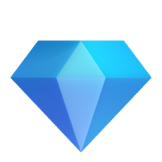
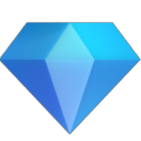
minor changes

Changed region(s): [[0.0, 0.1418, 1.0, 0.9645], [0.539, 0.539, 0.8794, 0.9078], [0.8794, 0.5106, 0.9078, 0.539]]

diff --git a/src/Components/SubSec3Container.js b/src/Components/SubSec3Container.js
@@ -1,23 +1,25 @@
 import CostEffectiveContainer from "./CostEffectiveContainer";
 import "./SubSec3Container.css";
+import rocket from "../assets/rocket.png"
+import diamond from "../assets/diamond.png"
 const SubSec3Container = () => {
   return (
     <div className="subsec3">
       <b className="heading2">Our Casino Software Solutions</b>
       <div className="yellowcards">
         <CostEffectiveContainer
-          whiteLabelText="/yellowimage@2x.png"
+          whiteLabelText={rocket}
           turnkeySolutionText="White Label"
           turnkeySolutionDescriptio="Cost-effective, comprehensive solution aimed at launching your own casino or sports exchange in the shortest period of time"
           propWidth="8.81rem"
           propHeight="8.81rem"
         />
         <CostEffectiveContainer
-          whiteLabelText="/yellowimage1@2x.png"
+          whiteLabelText={diamond}
           turnkeySolutionText="Turnkey Solution"
           turnkeySolutionDescriptio="The turn key business is a perfect solution for those who would like to get a self-owned multi-functional platform"
-          propWidth="10.13rem"
-          propHeight="10.13rem"
+          propWidth="8.81rem"
+          propHeight="8.81rem"
         />
       </div>
     </div>

diff --git a/src/Components/CostEffectiveContainer.css b/src/Components/CostEffectiveContainer.css
@@ -75,13 +75,14 @@
   font-size: var(--font-size-31xl);
   color: var(--neutral-colors-white);
   font-family: var(--headline);
-  background-color: yellow;
+  border-radius: 50px;
+background-color: #fec611;
 }
 
 
 .yellowcard:hover{
   border-radius: 50px;
-background: #ffffff;
-box-shadow: inset 20px 20px 82px #666666,
-            inset -20px -20px 82px #ffffff;
+/* background: #ffffff; */
+box-shadow:  inset 20px 20px 90px #aa850b,
+inset -20px -20px 90px #aa850b;
 }

diff --git a/src/Components/CostEffectiveContainer.js b/src/Components/CostEffectiveContainer.js
@@ -16,7 +16,8 @@ const CostEffectiveContainer = ({
 
   return (
     <div className="yellowcard">
-      {/* <img className="yellowmask-icon" alt="" src="/yellowmask@2x.png" /> */}
+      {/* <img className="yellowmask-icon" alt="" src="/yellowmaskx.png" /> */}
+      <div className="yellowmask-icon"></div>
       <div className="yellowrectangle">
         <div className="yellowbody">
           <div className="yellowbody">
